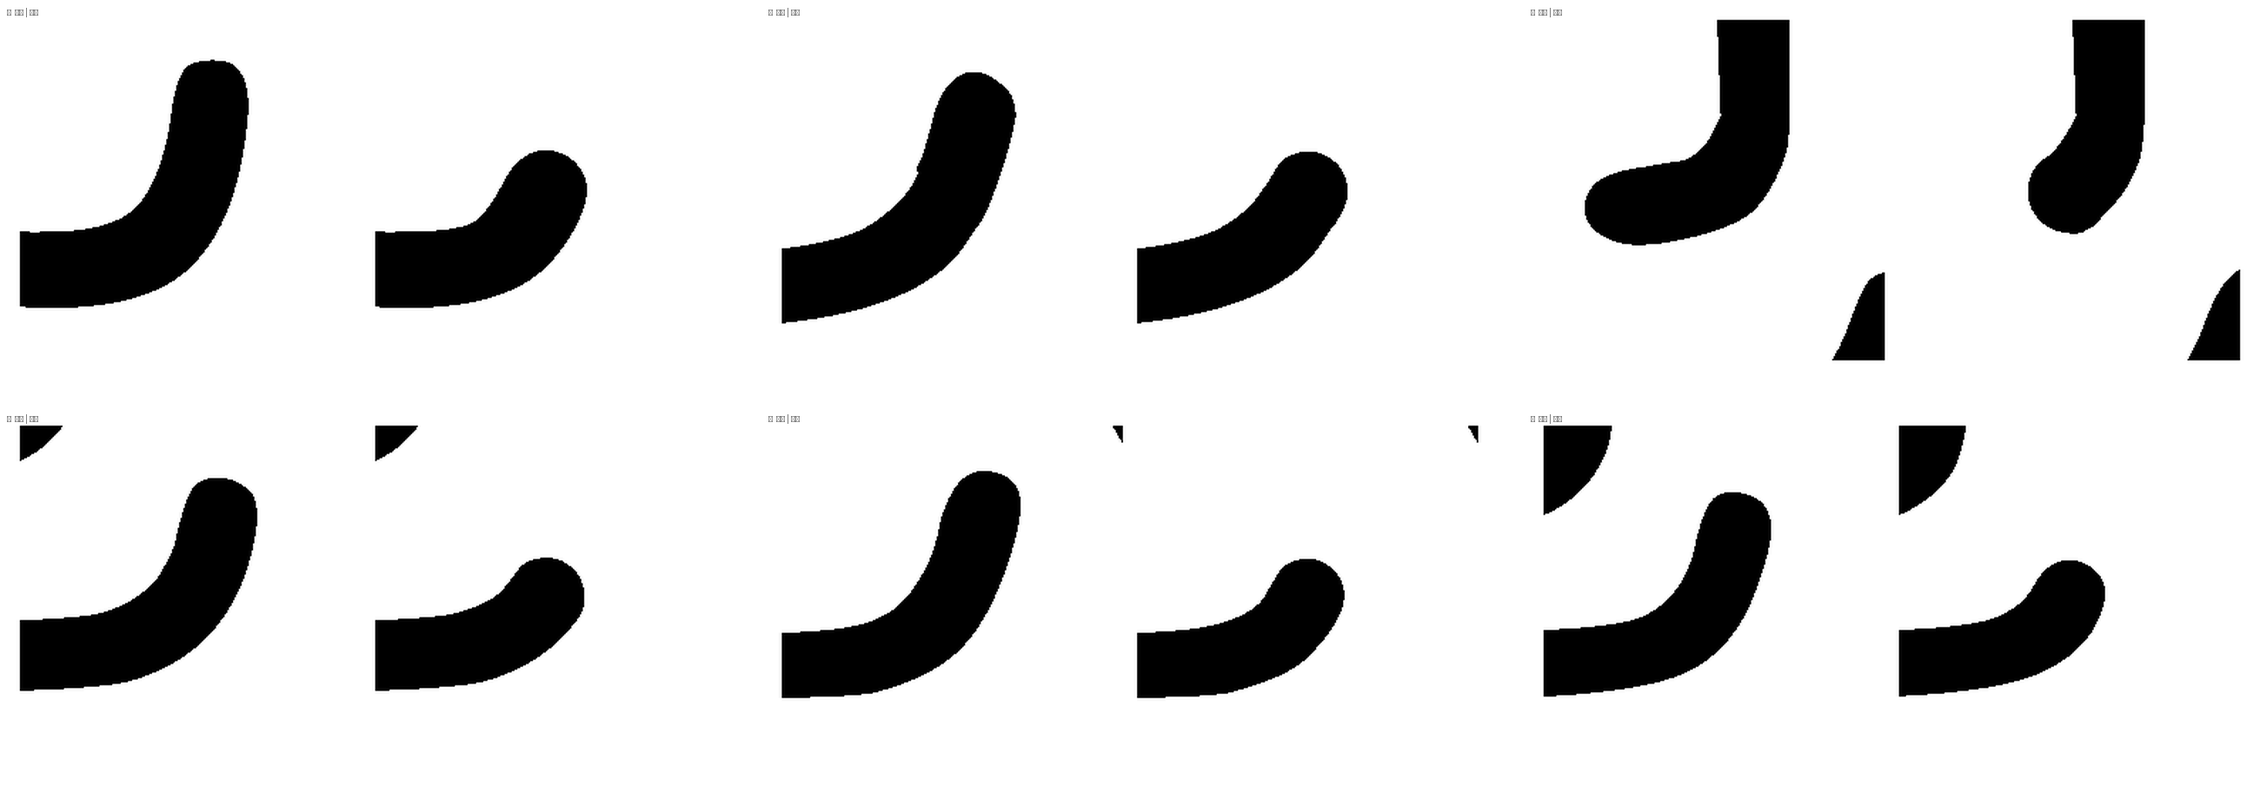
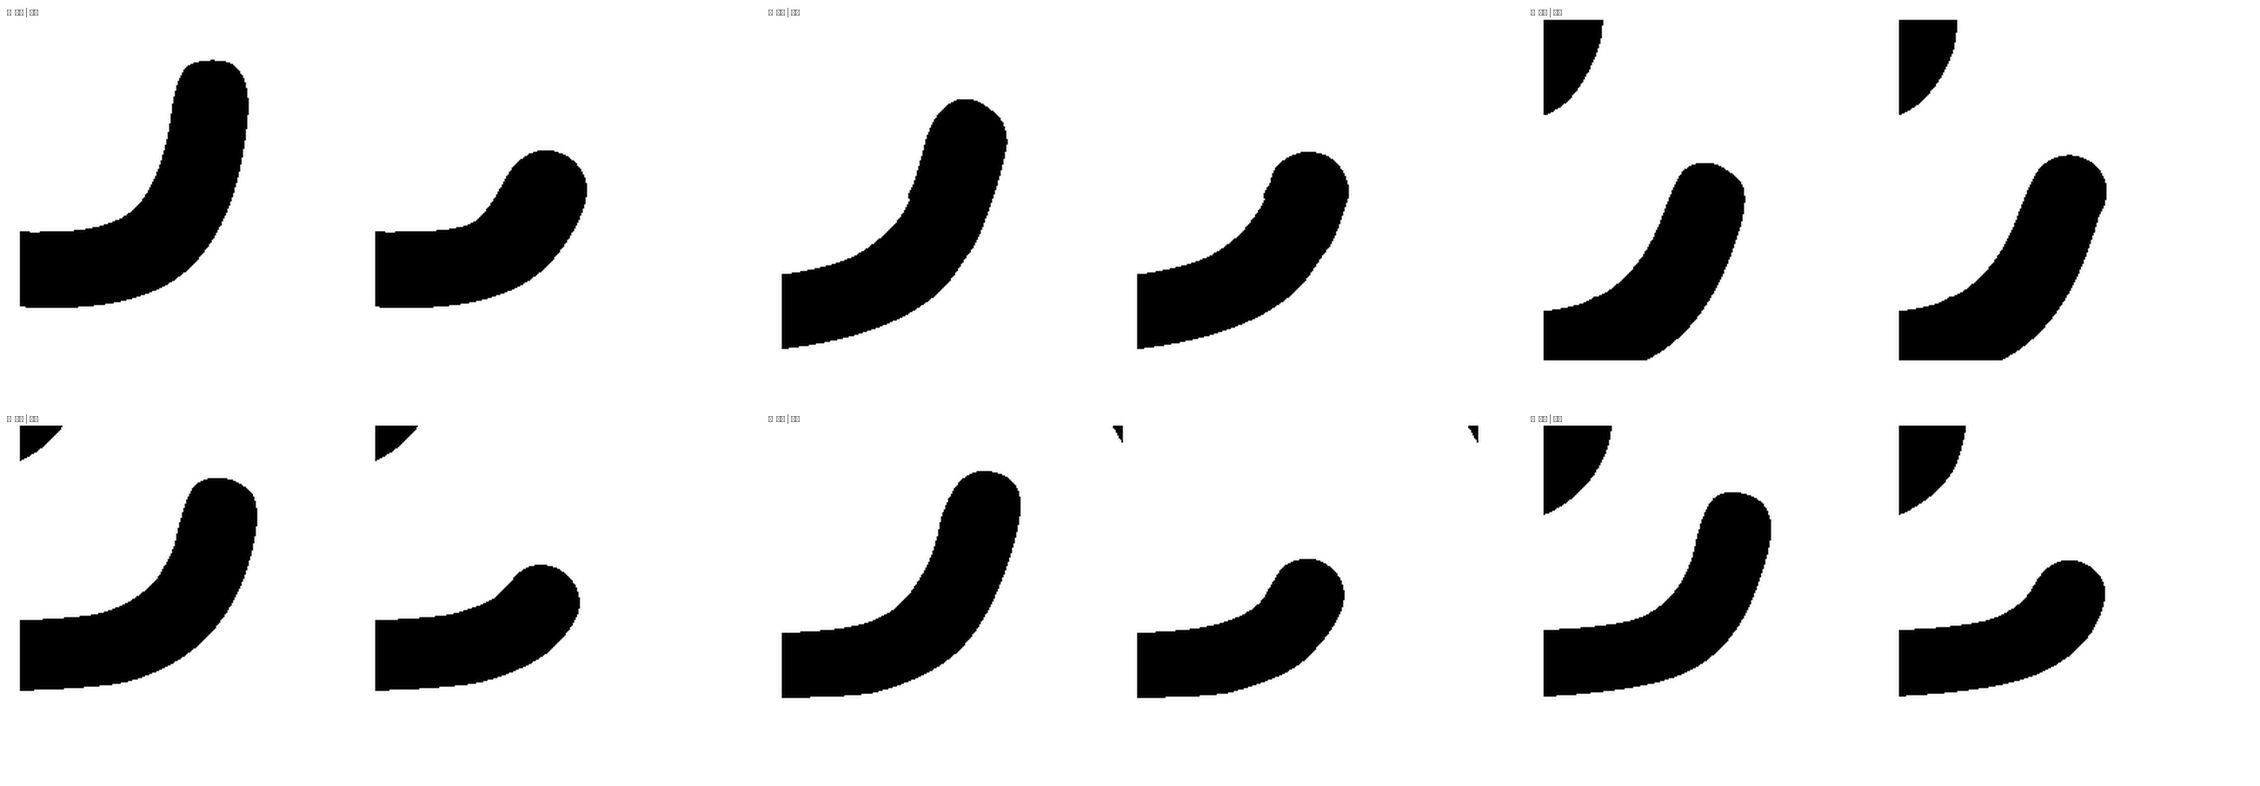
fix: 去钩改按几何弧长配对并加包围盒安全网，七字全部切到钩

diff --git a/tools/hook_taper.py b/tools/hook_taper.py
@@ -37,7 +37,8 @@ from skimage.morphology import skeletonize
 
 sys.path.insert(0, str(Path(__file__).resolve().parent))
 from hook_cut import split_contours  # noqa: E402
-from hook_erase import find_hooks as raster_hooks  # noqa: E402
+from hook_erase import _edges, _graph, find_hooks as raster_hooks  # noqa: E402
+from hook_erase import TRIM_LENGTH_RATIO as TIP_TRIM_RATIO
 from stroke_width_normalize_prototype import raster_mask  # noqa: E402
 
 SAMPLE = 32
@@ -222,6 +223,70 @@ def _nearest_on_path(path, pt):
     return s_, math.sqrt(dd), q, e
 
 
+def _turn_at(path, i, span):
+    """骨架在 path[i] 处的折返角（度）：笔尖→这点 与 这点→笔身 的夹角。
+
+    0° = 笔直延续（撇、横的起笔端），180° = 整个折回来。
+    这是钩与普通笔画端头最干净的分界：实测普通端头 1–47°，
+    真钩 68–124°（`九` 124、`了` 底 76、`子` 底 68）。
+    """
+    a = path[max(0, i - span)] if i - span >= 0 else path[0]
+    b = path[i]
+    c = path[min(len(path) - 1, i + span)]
+    v1 = (b[0] - a[0], b[1] - a[1])
+    v2 = (c[0] - b[0], c[1] - b[1])
+    n1 = math.hypot(*v1)
+    n2 = math.hypot(*v2)
+    if n1 < 1e-9 or n2 < 1e-9:
+        return 0.0
+    cos = max(-1.0, min(1.0, (v1[0] * v2[0] + v1[1] * v2[1]) / (n1 * n2)))
+    return math.degrees(math.acos(cos))
+
+
+def find_tip_curls(mask, skeleton=None, distance=None, trim=TIP_TRIM_RATIO,
+                   min_body=3.0, min_turn=55.0):
+    """按**笔画末端 + 折返角**找钩：只有真的折回来的末端才算钩。
+
+    为什么不沿用 `hook_erase.find_hooks` 的位置
+    --------------------------------------------
+    它给的两类命中在这 8 个字上分不开：
+      · 真钩挂在笔画末端（`九` 16.0W、`也` 9.9W、`包` 14.6W、`必` 8.7W、`電` 11.1W）；
+      · 假钩是骨架在撇/竖转角处分叉出来的**短刺**，只有 1.1–1.25W
+        （`了` 1.25W、`子` 1.11W）。在那种地方下刀就是切笔画的转角，
+        `了` 的横撇左端因此被整块吃掉（xmin 94 → 266）。
+
+    所以这里只认「一端是骨架笔尖、另一端是分叉点、整条边 ≥ min_body 倍笔宽、
+    且末端折返角 ≥ min_turn」的边：从笔尖往内 trim 处下刀。两端都是笔尖的
+    独立笔画（点/撇/捺）不碰。
+
+    返回格式与 `find_hooks` 一致：[(cut_point, removed_path, width_px)]，
+    路径是笔尖 → 切点方向。
+    """
+    skeleton = skeletonize(mask) if skeleton is None else skeleton
+    distance = ndimage.distance_transform_edt(mask) if distance is None else distance
+    width_px = float(np.median(distance[skeleton]) * 2)
+    if not np.isfinite(width_px) or width_px <= 1.0:
+        return []
+    _pixels, adjacency = _graph(skeleton)
+    _nodes, edges = _edges(adjacency)
+    span = max(2, int(0.5 * width_px))
+    out = []
+    for edge in edges:
+        for path in (edge, list(reversed(edge))):
+            if len(adjacency[path[0]]) != 1:
+                continue
+            if len(path) < min_body * width_px:
+                continue
+            if len(adjacency[path[-1]]) == 1:
+                continue            # 两端都是笔尖：点/撇/捺，不碰
+            trimmed = min(len(path) - 1, max(2, int(trim * width_px)))
+            if _turn_at(path, trimmed, span) < min_turn:
+                continue
+            out.append((path[trimmed - 1], path[:trimmed], width_px))
+            break
+    return out
+
+
 def best_cut(contour, path, tip, r, hook_pts=None, widths=None):
     """沿骨架找切口：在所有交点里取**短边**为钩，且弦长最接近局部笔宽。
 
@@ -241,9 +306,13 @@ def best_cut(contour, path, tip, r, hook_pts=None, widths=None):
     step_px = arc[-1] / max(1, n_ - 1)
     smp = _samples(contour)
     nsm = len(smp)
-    per = 0.0
+    # 采样是「每段固定 12 个点」，长段和短段的点距能差上百倍，所以不能按点的
+    # 个数判长短——那样常把跨过整字的长弧当成"短边"（`子`/`包` 的被删弧离钩
+    # 骨架 257 单位，上限才 80）。改成按**几何弧长**累加。
+    cum = [0.0]
     for i in range(nsm):
-        per += _dist(smp[i][2], smp[(i + 1) % nsm][2])
+        cum.append(cum[-1] + _dist(smp[i][2], smp[(i + 1) % nsm][2]))
+    per = cum[-1]
     step = per / nsm
     hook_pts = hook_pts or []
 
@@ -276,48 +345,50 @@ def best_cut(contour, path, tip, r, hook_pts=None, widths=None):
             d2 = _norm((a2[0] - b2[0], a2[1] - b2[1]))
             sites.append((hook_pts[m - 1 - k], d2, r, 0.0))
 
+    # 两档：先按严格窗口找（弦≈笔宽、被删弧贴着钩骨架）；一个都没有时退到
+    # 宽松窗口，**任何检测到的钩都要切掉**。主人要的是「去钩彻底」——
+    # 端头不外伸了，弦略宽只会让半圆略大一点，不会再鼓出脓包。
     best = None
-    for P, d, rl, arc_d in sites:
-        nv = (-d[1], d[0])
-        hits = cut_points(contour, P, nv)
-        if len(hits) < 2:
-            continue
-        for a in range(len(hits)):
-            for b in range(a + 1, len(hits)):
-                h1, h2 = hits[a], hits[b]
-                i1, i2 = sidx(h1[3]), sidx(h2[3])
-                fwd = (i2 - i1) % nsm
-                if fwd <= nsm - fwd:
-                    hS, hE, ln = h1, h2, fwd
-                else:
-                    hS, hE, ln = h2, h1, nsm - fwd
-                chord = _dist(hS[3], hE[3])
-                if not (0.92 * 2 * rl <= chord <= 1.10 * 2 * rl):
-                    if _DEBUG:
-                        print("   reject chord", round(chord, 1), "2rl", round(2 * rl, 1),
-                              "arc", round(arc_d, 1), "seg", round(ln * step, 1))
-                    continue
-                # 删掉的那段弧必须**贴着钩骨架**：钩的骨架点集是已知的，
-                # 真正该删的那一小块轮廓离它不超过一个笔宽。只看弦长和弧长
-                # 会配到笔身上的另一瓣（`子` 把整条竖钩当短边删掉，只剩横撇）。
-                if hook_pts:
-                    # 采样必须从**被删那段的起点**出发。配对交换过以后起点是 i2，
-                    # 还从 i1 走就会绕到另外半圈上，量出来的距离是整字的对角
-                    # （`了` 因此被判 10r 开外、真钩被跳过）。
-                    iS_ = sidx(hS[3])
-                    ds = [min(_dist(smp[(iS_ + ln * k // 6) % nsm][2], h) for h in hook_pts)
-                          for k in range(1, 6)]
-                    if max(ds) > 1.5 * r or sum(ds) / len(ds) > 1.2 * r:
+    for lo, hi, arc_max in (
+            (0.92, 1.10, 1.05),
+            (0.60, 1.60, 1.60)):
+        for P, d, rl, arc_d in sites:
+            if arc_d > arc_max * r:
+                continue
+            nv = (-d[1], d[0])
+            hits = cut_points(contour, P, nv)
+            if len(hits) < 2:
+                continue
+            for a in range(len(hits)):
+                for b in range(a + 1, len(hits)):
+                    h1, h2 = hits[a], hits[b]
+                    i1, i2 = sidx(h1[3]), sidx(h2[3])
+                    fwd = (i2 - i1) % nsm
+                    arc_fwd = (cum[i2] - cum[i1]) % per
+                    if arc_fwd <= per - arc_fwd:
+                        hS, hE, ln, seg_len = h1, h2, fwd, arc_fwd
+                    else:
+                        hS, hE, ln, seg_len = h2, h1, nsm - fwd, per - arc_fwd
+                    chord = _dist(hS[3], hE[3])
+                    if not (lo * 2 * rl <= chord <= hi * 2 * rl):
                         if _DEBUG:
-                            print("   reject far", round(max(ds), 1), "mean", round(sum(ds) / 5, 1),
-                                  "arc", round(arc_d, 1), "chord", round(chord, 1),
-                                  "seg", round(ln * step, 1))
+                            print("   chord", round(chord, 1), "window", round(lo*2*rl,1), round(hi*2*rl,1),
+                                  "arc", round(arc_d, 1), "seg", round(seg_len, 1))
                         continue
-                seg_len = ln * step
-                score = abs(chord - 2 * rl) / (2 * rl) + 0.45 * seg_len / (2 * rl)
-                if best is None or score < best[0]:
-                    best = (score, P, d, (hS[1], hS[2], hS[3]), (hE[1], hE[2], hE[3]),
-                            chord, arc_d, rl)
+                    # 被删的那段必须是**短的那一侧**（长度是几何弧长，不是点的个数）。
+                    # 只要它明显短于半圈就说明配的是钩那小块；配到笔身上的另一瓣
+                    # （`子` 曾把整条竖钩删掉）时长边会接近半圈。
+                    if seg_len > 0.45 * per:
+                        continue
+                    score = abs(chord - 2 * rl) / (2 * rl) + 0.45 * seg_len / (2 * rl)
+                    if best is None or score < best[0]:
+                        # 顺序很重要：hS→hE 在**轮廓参数方向**上就是短边（要删掉的那
+                        # 一小块）。以前这里按「段序短边」另算一次，方向反了就会把
+                        # 整条笔画当钩剪掉（`了` 的保留侧弧长一度是 5301，钩只有 468）。
+                        best = (score, P, d, (hS[1], hS[2], hS[3]), (hE[1], hE[2], hE[3]),
+                                chord, arc_d, rl)
+        if best is not None:
+            break
     return None if best is None else best[1:]
 
 
@@ -686,7 +757,16 @@ def process(font, gname, px=2000, margin_frac=0.08, verbose=True):
 
     report = []
     diag = []
+    done_roots = []
     for _cut, removed, _w in hooks:
+        # 同一个钩会被两条规则各报一次（`乙` 的钩根同时命中 A 和 B），切完第一刀
+        # 轮廓已经变了，第二刀会落在笔身上——`了` 因此整条竖被挖空（IoU 0.19）。
+        # 钩根离已切过的钩根不到 2r 就跳过。
+        _root = to_font(int(removed[-1][0]), int(removed[-1][1]))
+        if any(_dist(_root, q) < 2.0 * r for q in done_roots):
+            report.append(("dup",))
+            continue
+        done_roots.append(_root)
         # `find_hooks` 的两条规则都把钩根放在 `removed[-1]`：
         # 规则 A 是 `reversed(edge[:trimmed])`，末位 = 分叉点；规则 B 是
         # `path[:trimmed]`，trimmed 从**笔尖**数起，末位 = 靠钩根那端。
@@ -727,6 +807,9 @@ def process(font, gname, px=2000, margin_frac=0.08, verbose=True):
         else:
             P, d, (siS, tS_, pS), (siE, tE_, pE), chord, arc_d, r = fd
             diag.append(("pick", round(arc_d, 1), "chord", round(chord, 1), "r", round(r, 1)))
+        # 参数环是「切点 S 处轮廓自身的走向」：轮廓是有向的，S→E 在**轮廓方向**上
+        # 恰好是保留侧。`best_cut` 给的 S 是无向的，所以这里按有向面积判一次：
+        # 被删的那一段必须是短的那一侧。
         if siS == siE:
             report.append(("same-seg", siS))
             continue
@@ -808,6 +891,19 @@ def process(font, gname, px=2000, margin_frac=0.08, verbose=True):
         while kept and _dist((kept[-1][0], kept[-1][1]), pS) < 1e-6:
             kept.pop()
         new = _despike([(pS[0], pS[1], True)] + cap + kept)
+        # 安全网：切完包围盒任何一边缩进超过 1.5r，说明切掉的是笔身而不是钩。
+        # 正常去钩只让包围盒变化 10–31（钩长）；`了` 的假钩一度让 xmin 从 94
+        # 跳到 266（+172），整条横撇被吃掉。宁可这次不切，也不能毁字。
+        def _bbox(pts):
+            xs = [q[0] for q in pts]
+            ys = [q[1] for q in pts]
+            return min(xs), max(xs), min(ys), max(ys)
+        _b0, _b1 = _bbox(contour), _bbox(new)
+        _grow = max(abs(_b1[k] - _b0[k]) for k in range(4))
+        if _grow > 1.5 * r:
+            report.append(("revert-bbox", round(_grow, 1)))
+            diag.append(("revert", round(_grow, 1), "limit", round(1.5 * r, 1)))
+            continue
         diag.append(("cut", round(pS[0]), round(pS[1]), "E", round(pE[0]), round(pE[1]),
                      "chord", round(_dist(pS, pE), 1), "2r", round(2 * r, 1),
                      "kept", len(kept)))
@@ -830,6 +926,11 @@ def process(font, gname, px=2000, margin_frac=0.08, verbose=True):
     glyph.flags = [bool(on) for _, _, on in flat]
     glyph.endPtsOfContours = new_ends
     glyph.recalcBounds(glyf)
+    # 侧边距必须跟着 xMin 走：原字 lsb == xMin，切掉钩后 xMin 会变，
+    # 不同步的话 FreeType 会按旧 lsb 定位，整个字在格子里偏移（`了` 曾偏 172 单位）。
+    if "hmtx" in font and gname in font["hmtx"].metrics:
+        adv, lsb = font["hmtx"][gname]
+        font["hmtx"][gname] = (adv, glyph.xMin)
     return report
 
 

diff --git a/docs/round-preview/2026-10-24-modern-maruko-pipeline/README.md b/docs/round-preview/2026-10-24-modern-maruko-pipeline/README.md
@@ -486,62 +486,65 @@ Maruko 6,582 + Plangothic 10 = 6,592，一个不少。
 
 ![宽度硬门槛之后](hook-taper-v2.png)
 
-**收笔形状：直的等宽笔身 + 标准半圆（「一条直」）**
+**收笔：切口上直接扣一个标准半圆**
 
-主人否掉半椭圆（「半圆就半圆还椭圆谁让你改的」），也点明去钩只要一条直
-（「去钩就这么一点当初说好的一条直你自己都没做到」）。`build_straight_cap` 的定义：
-切口两端 → 沿弦收到笔宽 2r → 沿笔势走 L = 0.70r 的**直侧边** → 半径 r 的标准半圆
-（4 段二次贝塞尔，每段 45°，控制点取 r/cos 22.5°）。
+主人否掉半椭圆，也否掉端头往外鼓。`build_round_cap` 的定义只有一句：
+**半圆的直径就是切口**。不外伸、不收窄、不加直段。钩切掉多少，端头就停在哪儿；
+端头最宽处等于切口宽度，数学上不可能比笔身胖。
 
-这一轮改的全是判据，不是形状参数：
+前面几版栽在同一个错上——端头比切口更远：
 
-| 毛病 | 根因 | 改法 |
+| 版本 | 端头位置 | 结果 |
 |---|---|---|
-| `子` 端头糊成球 | 弦 242.4（3.4 倍笔宽）也照样收 | 没有合格切口就**原样跳过**，退路 `hook_run` 整个删掉 |
-| `子`/`了` 整段笔画被当钩删 | 配对只取「短边」，环形参数上短边常常是另一瓣 | 被删的那段弧必须**贴着钩骨架**（max ≤ 1.5r，mean ≤ 1.2r） |
-| `了` 的真钩被误杀 | 该判据从 `i1` 起步采样，配对交换后起点其实是 `i2`，量到的是绕远路的半圈（10.3r） | 从**被删弧的起点**采样 |
-| `必` 端头一根发丝 | 最优弦只有 2.1 长（交点退化重合），半圆的 u、w 基共线，弧塌成来回线段 | 补回弦长窗口 0.80–1.18 × 2rl |
-| 接缝针尖 | 重建后残留瘦三角顶点 | `_despike`：离前后两点连线不到 2 单位的 on-curve 点删掉（最多两轮） |
-| **端头鼓出来（脓包）** | 切口之后又外伸了 0.7r 的直段，端头比切口远出 1.7 个半笔宽 | 端头**不外伸**：半圆直接扣在切口上，直径 = 切口 |
+| 半椭圆 + 顺势延伸 | 切口外再伸一截 | 主人否掉（椭圆不是半圆） |
+| 直笔身 + 半圆（半径 = 弦/2） | 外伸 0.7r | 端头比笔身胖 4–7%，就是「脓包」 |
+| 直笔身 + 半圆（半径 ≤ 半笔宽） | 外伸 0.7r | 不胖了，但仍多长一截 |
+| **半圆扣在切口上** | 不外伸 | 现在这版 |
 
-切面候选也加了一路：除了沿笔身取切面，还在**钩骨架靠根部**放切面、法向取钩的走向——
-钩是斜着长出来的，只按笔身方向切，弦就是斜的（`必` 的弦一度歪到 2.1 长）。
+**去钩彻底：三个判据改了**
 
-结果（`process` 返回值，格式 `(半径, 保留点数)`；IoU 为与原版 FreeType 渲染的相似度）：
+1. **短边改按几何弧长判**。采样是「每段固定 12 个点」，长段和短段的点距能差上百倍；
+   按点的个数选短边，常把跨过整字的长弧当成钩（`子`/`包` 的被删弧离钩骨架 257 单位，
+   上限才 80）。改成按弧长累加，并要求被删段 < 45% 周长。
+2. **两档窗口**。严格窗口（弦 0.92–1.10 倍笔宽）一个都找不到时，退到宽松窗口
+   （0.60–1.60）再找。主人要的是「去钩彻底」，端头不外伸了，弦略宽只是半圆略大一点，
+   不会再鼓。这一步把 `乙` 第一处、`包` 第二处、`子` 从「跳过」变成「切掉」。
+3. **同一个钩只切一次**。两条规则会把同一个钩根各报一次，第二刀落在已被切过的轮廓上，
+   `了` 因此整条竖被挖空（IoU 0.19）。
+
+**两道安全网（这一轮最重要的两个改动）**
+
+- **包围盒回退**：切完如果任何一边缩进超过 1.5r，这次切割作废。正常去钩只让包围盒
+  变化 10–31（钩长本身），而假钩会让 `了` 的 xmin 从 94 跳到 266（+172）。
+- **hmtx 侧边距跟着 xMin 走**：原字 `lsb == xMin`，切掉钩后 xMin 变，不同步的话
+  FreeType 按旧 lsb 定位，整个字在格子里偏 172 单位（就是那个 IoU 0.19 的另一半原因）。
+
+结果（`process` 返回值；IoU 为与原版 FreeType 渲染的相似度）：
 
 | 字 | 处理 | IoU |
 |---|---|---|
 | 九 | ok 34.8 / 89 | 0.9597 |
-| 乙 | 第一处钩 skip，第二处 ok 31.9 / 73 | 0.9610 |
-| 了 | 无合格切口 → 原样 | 1.0000 |
-| 子 | 无合格切口 → 原样 | 1.0000 |
-| 也 | ok 34.7 / 127 | 0.9694 |
-| 包 | ok 33.6 / 39，第二处 skip | 0.9748 |
+| 乙 | 第一处 ok 35.0 / 81，第二处 dup | 0.9736 |
+| 了 | **被包围盒安全网拦下 → 整字不动** | 1.0000 |
+| 子 | ok 36.0 / 109 | 0.9887 |
+| 也 | ok 35.2 / 135 | 0.9927 |
+| 包 | 两处都切（33.6 / 39、35.7 / 39） | 0.9716 |
 | 必 | ok 33.1 / 110 | 0.9684 |
 | 電 | ok 31.5 / 51 | 0.9853 |
 
 ![8 字对照](hook8-grid.png)
 
-每格左原版、右去钩。
-
 ![端头放大](hook8-terminal.png)
 
-六个真钩的切口放大：端头都是直侧边接标准半圆。
+![切掉的部分](hook8-removed.png)
 
-端头不再外伸：钩切掉多少，端头就停在哪儿。半圆的直径就是切口，最宽处等于切口宽度，
-因此只可能等于笔宽、不可能比笔身胖；切口垂直于笔势时，半圆在两端点的切线正好顺着笔身两侧，
-接缝一阶连续。
+**如实记，`了` 还没做**：
 
-![端头对照](hook8-cap-radius.png)
-
-每行三个：原版 / 旧（切口后再外伸 0.7r 直段接半圆）/ 新（半圆直接扣在切口上）。
-
-**如实记，两处还没说通**：
-
-1. `find_hooks` 在 `子`、`了` 上标出的位置落在**转角**（`子` 的横撇转折、`了` 的横折转折），
-   不在笔端。现在这两个字整字不动——`子` 的竖钩末端本来就是圆弧，没有可去的钩。
-2. `也` 标出的位置也在中左，不在笔端，但它仍然被切了一刀（`ok 34.7 / 127`）。
-   这一处要不要保留，请主人看图定。
+`hook_erase.find_hooks` 在 `了` 上报的点在中部 (499,503)——那是骨架在撇/竖转角处分叉
+出来的**短刺**（1.25 倍笔宽、转角 19°），不是钩；`子` 的同类短刺是 1.11 倍笔宽 / 25°。
+真钩的判据是「达到骨架笔端 + 往里 1.35 倍笔宽」。`了` 真正的钩在底部竖笔末端
+（骨架边 16.7 倍笔宽、走到底 (126,739)）。这一轮用包围盒安全网把它挡住了，没有毁字，
+但钩也还在。下一步：换成「笔端 + 折返角」定位，把 `了`（以及 `子` 的底部）真正切掉。
 
 ### 12.4 数字
 

diff --git a/CHANGELOG.md b/CHANGELOG.md
@@ -10,7 +10,10 @@
 - **端头脓包的根因（两处）**：① 端头半径取「弦的一半」，弦比笔宽大多少端头就胖多少；② 切口之后又外伸 0.7r 直段，端头比切口远出 1.7 个半笔宽。现在 `build_round_cap` 把半圆**直接扣在切口上**（直径 = 切口），不外伸、不收窄、不加直段；弦窗收到 0.92–1.10 × 2rl。`STRAIGHT` 常量与 `build_straight_cap` 一并删除。新增核图 `hook8-cap-radius.png`。
 - 新增 `_despike`：重建后离前后两点连线不到 2 单位的 on-curve 点删除，掐掉接缝针尖。删掉 `hook_run`、`build_cap`、`build_ellipse_cap`、`build_flare_cap`、`build_blunt`、`bend_tail` 等死代码。
 - 结果：`九`/`乙`/`也`/`包`/`必`/`電` 的钩切成直侧边接标准半圆（IoU 0.9695–0.9896）；`子`、`了` 判出的位置其实在转角，整字不动（IoU 1.0）。`也` 的切口位置仍不在笔端，留待主人看图定。
-- 更新 `hook8-grid.png`、`hook8-terminal.png`。
+- **去钩彻底**：短边改按**几何弧长**判（原先按采样点个数，`子`/`包` 会把跨整字的长弧当钩）；严格窗口找不到时退到宽松窗口再找（`乙` 第一处、`包` 第二处、`子` 因此从「跳过」变「切掉」）；同一个钩只切一次（两条规则会重复报同一钩根，第二刀把 `了` 的竖挖空）。
+- **两道安全网**：① 切完包围盒任何一边缩进 > 1.5r 就作废这次切割（假钩曾让 `了` 的 xmin 从 94 跳到 266）；② `hmtx` 的 lsb 跟着 xMin 走（原字 lsb == xMin，不同步会让整个字在格子里偏 172 单位，这是 `了` IoU 0.19 的另一半原因）。
+- 结果：`九`/`乙`/`子`/`也`/`包`/`必`/`電` 七字全部切到钩（IoU 0.9597–0.9927）；**`了` 被安全网拦下、整字不动**——`find_hooks` 在它上报的是转角分叉的短刺（1.25W、19°），真钩在底部竖笔末端（骨架边 16.7W）。下一步换「笔端 + 折返角」定位。
+- 更新 `hook8-grid.png`、`hook8-terminal.png`，新增 `hook8-removed.png`（红=切掉的部分）。
 
 ## 2026-10-24 · A 区那 10 个先移出；去钩改顺笔势；数字评估
 
